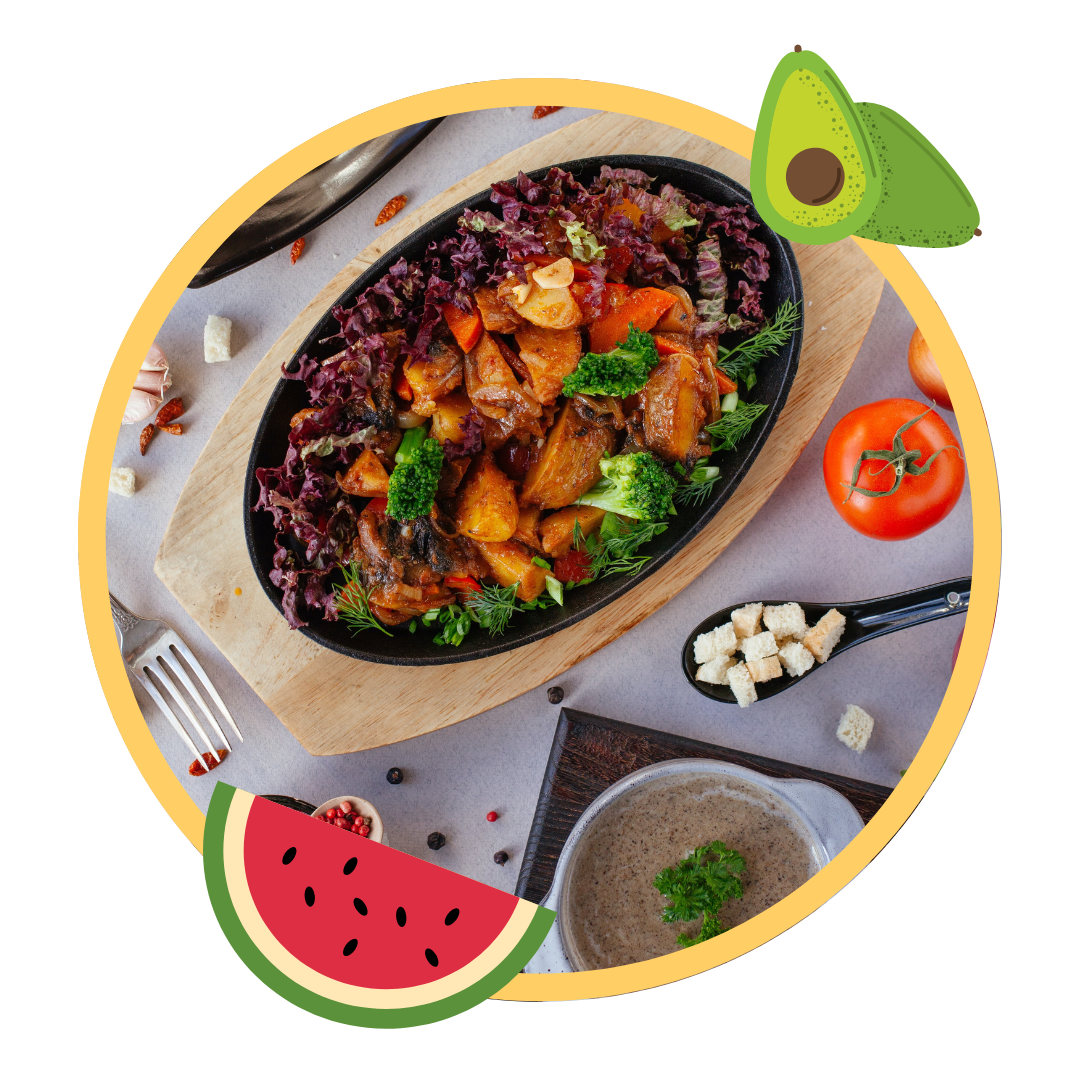
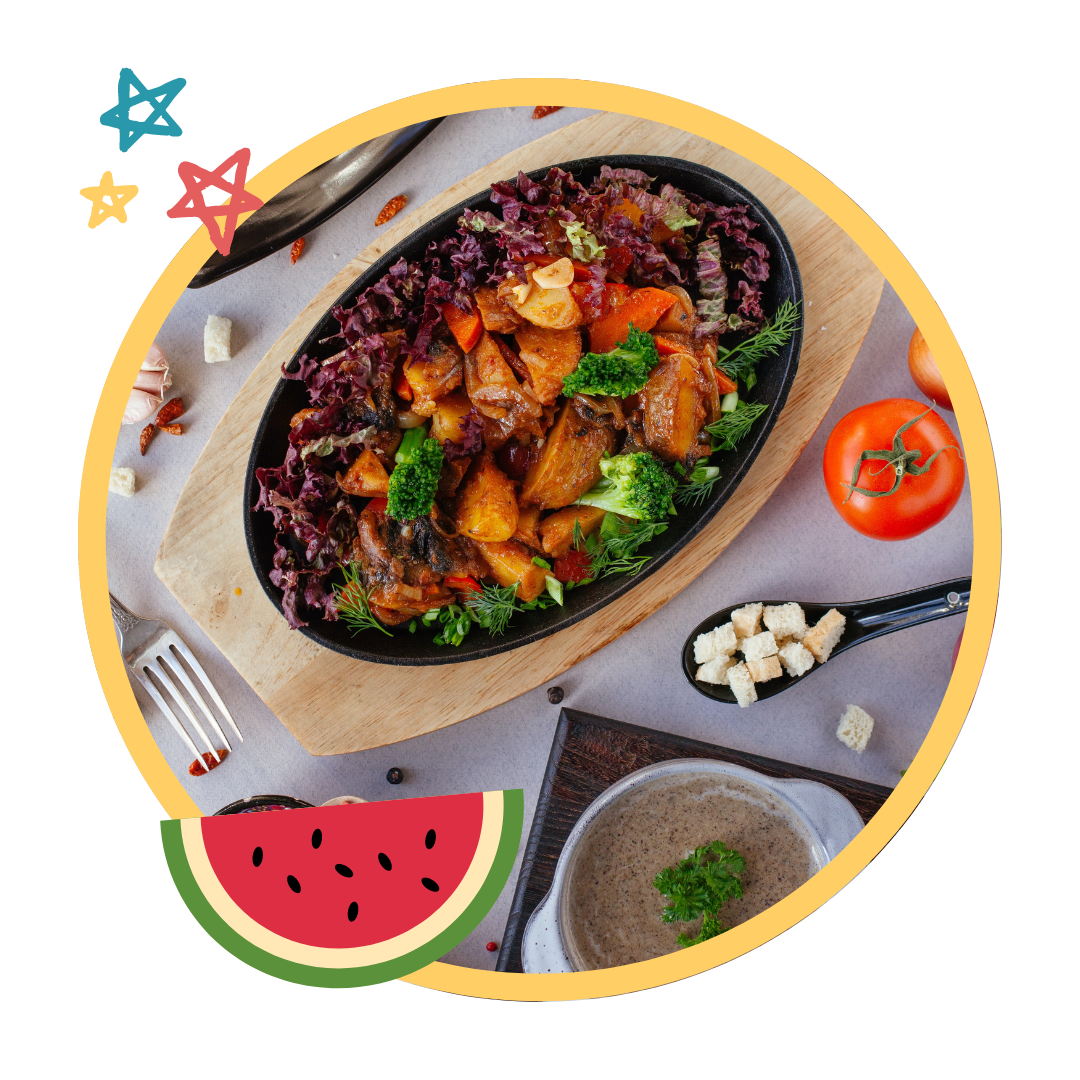
Change hero img

Changed region(s): [[0.1528, 0.7028, 0.5194, 0.9778], [0.6722, 0.0306, 0.9167, 0.2444], [0.0611, 0.0611, 0.2444, 0.2444]]

diff --git a/src/components/Home.js b/src/components/Home.js
@@ -31,7 +31,7 @@ const Home = () =>  {
         <div className="row justify-content-center mt-10 mt-md-24">
             <div className="col-lg-12 text-lg-center mb-n20 mb-md-n40 position-relative overlap-10 container-hero-img">
               <div className="position-relative overlap-10">
-					<img style={{marginTop: "-120px", marginBottom: "20px"}} className='hero-img' alt="cokuus_emma_1" src={require('../images/hero_emma_cokuus_circle2.png')} />
+					<img style={{marginTop: "-120px", marginBottom: "20px"}} className='hero-img' alt="cokuus_emma_1" src={require('../images/hero_emma_cokuus_circle3.png')} />
               </div>
                 <div className="d-none d-xl-block position-absolute top-10 start-0 transform translate-x-n1/2 w-64 h-64 svg-fluid text-white opacity-20">
                     <svg viewBox="0 0 232 168" fill="none" xmlns="http://www.w3.org/2000/svg">

diff --git a/public/index.html b/public/index.html
@@ -10,21 +10,11 @@
       content="Web site created using create-react-app"
     />
 
-    <title>Cokuus | Transforma tu Cocina en un Lugar Mágico</title>
+    <title>Cokuus | Niños que Disfrutan Comer</title>
   
   </head>
   <body>
     <noscript>You need to enable JavaScript to run this app.</noscript>
     <div id="root"></div>
-    <!--
-      This HTML file is a template.
-      If you open it directly in the browser, you will see an empty page.
-
-      You can add webfonts, meta tags, or analytics to this file.
-      The build step will place the bundled scripts into the <body> tag.
-
-      To begin the development, run `npm start` or `yarn start`.
-      To create a production bundle, use `npm run build` or `yarn build`.
-    -->
   </body>
 </html>
